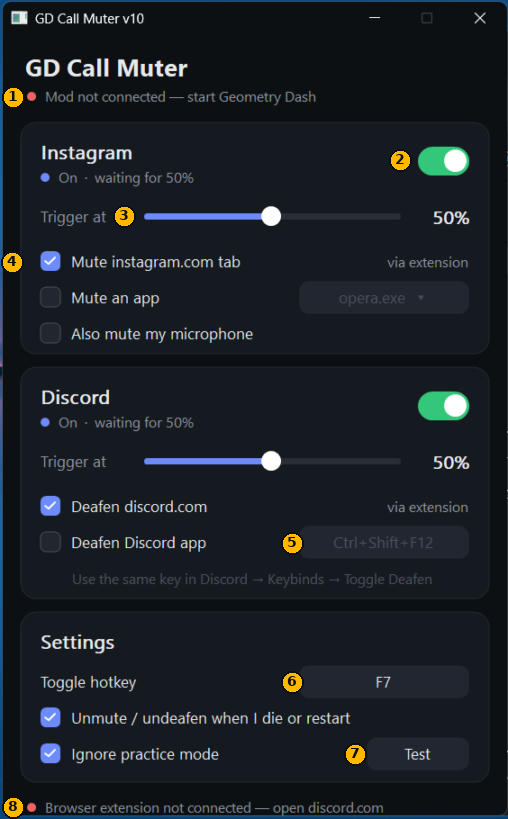
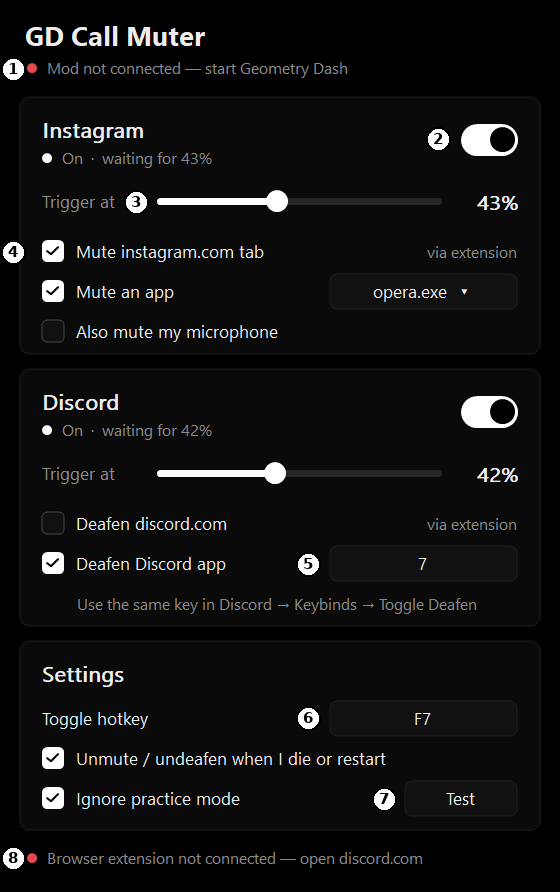
Docs: new black UI screenshots; app can save its own screenshot (--shot)
Claude-Session: https://claude.ai/code/session_01Dt9iSt3DbMXcqJxFsuaK12

diff --git a/windows-app/main_windows.go b/windows-app/main_windows.go
@@ -16,11 +16,33 @@ import (
 	"os"
 	"path/filepath"
 	"runtime"
+	"strings"
 	"syscall"
 	"unsafe"
 )
 
 const appTitle = "GD Call Muter v10"
+
+// shotPath: run with --shot out.png to save a picture of the window and exit
+// (used to make the README screenshot).
+var shotPath string
+
+func saveShot(bmp uintptr, path string) {
+	var img uintptr
+	pGdipBmpFromHBITMAP.Call(bmp, 0, uintptr(unsafe.Pointer(&img)))
+	if img == 0 {
+		return
+	}
+	// PNG encoder CLSID {557CF406-1A04-11D3-9A73-0000F81EF32E}
+	clsid := struct {
+		d1 uint32
+		d2 uint16
+		d3 uint16
+		d4 [8]byte
+	}{0x557CF406, 0x1A04, 0x11D3, [8]byte{0x9A, 0x73, 0x00, 0x00, 0xF8, 0x1E, 0xF3, 0x2E}}
+	p, _ := syscall.UTF16PtrFromString(path)
+	pGdipSaveImageToFile.Call(img, uintptr(unsafe.Pointer(p)), uintptr(unsafe.Pointer(&clsid)), 0)
+}
 
 var (
 	user32  = syscall.NewLazyDLL("user32.dll")
@@ -80,6 +102,8 @@ var (
 	pGdipDeleteGraphics   = gdiplus.NewProc("GdipDeleteGraphics")
 	pGdipSetSmoothingMode = gdiplus.NewProc("GdipSetSmoothingMode")
 	pGdipSetPixelOffset   = gdiplus.NewProc("GdipSetPixelOffsetMode")
+	pGdipBmpFromHBITMAP   = gdiplus.NewProc("GdipCreateBitmapFromHBITMAP")
+	pGdipSaveImageToFile  = gdiplus.NewProc("GdipSaveImageToFile")
 	pGdipCreatePath       = gdiplus.NewProc("GdipCreatePath")
 	pGdipDeletePath       = gdiplus.NewProc("GdipDeletePath")
 	pGdipAddPathArcI      = gdiplus.NewProc("GdipAddPathArcI")
@@ -777,6 +801,11 @@ func paint() {
 	}
 	pBitBlt.Call(hdc, 0, 0, uintptr(w), uintptr(h), mem, 0, 0, 0xCC0020)
 	pSelectObject.Call(mem, oldBmp)
+	if shotPath != "" {
+		saveShot(bmp, shotPath)
+		shotPath = ""
+		pPostQuitMessage.Call(0)
+	}
 	pDeleteObject.Call(bmp)
 	pDeleteDC.Call(mem)
 	pEndPaint.Call(hwndMain, uintptr(unsafe.Pointer(&ps)))
@@ -1098,6 +1127,16 @@ func main() {
 	if r, _, _ := pGetDpiForSystem.Call(); r > 0 {
 		dpi = int(r)
 	}
+	for i, a := range os.Args {
+		if a == "--shot" && i+1 < len(os.Args) {
+			shotPath = os.Args[i+1]
+		}
+	}
+	// a copy named "...shot...exe" saves its picture next to itself when opened
+	if exe, err := os.Executable(); err == nil && shotPath == "" &&
+		strings.Contains(strings.ToLower(filepath.Base(exe)), "shot") {
+		shotPath = filepath.Join(filepath.Dir(exe), "gd-app-black.png")
+	}
 	comInit()
 	gsi := struct {
 		version            uint32
@@ -1108,7 +1147,7 @@ func main() {
 	pGdiplusStartup.Call(uintptr(unsafe.Pointer(&gpToken)), uintptr(unsafe.Pointer(&gsi)), 0)
 	loadCfg()
 
-	if err := serveWeb(); err != nil {
+	if err := serveWeb(); err != nil && shotPath == "" {
 		pMessageBoxW.Call(0, uintptr(unsafe.Pointer(u16("GD Call Muter is already running (or another app is using port 47322). Close the other copy, including v9, and try again."))),
 			uintptr(unsafe.Pointer(u16(appTitle))), 0x30)
 		return

diff --git a/README.md b/README.md
@@ -45,7 +45,7 @@ Three small pieces work together. Everything stays on your own computer.
   If you see *"Windows protected your PC"*, click **More info → Run anyway** (the app isn't code-signed).
 - **Mac:** unzip `GD-Call-Muter-Mac.zip`, then see [Mac extra steps](#mac-extra-steps) for the first open.
 
-The top line of the app turns **green — "Connected"** once Geometry Dash (with the mod) is running.
+The top line of the app shows **Connected** once Geometry Dash (with the mod) is running.
 
 ### Step 3 — Add the browser extension
 
@@ -60,7 +60,7 @@ Needed for muting the **Instagram tab** and deafening **discord.com**.
 5. **Refresh** your instagram.com and discord.com tabs.
 
 > Keep that folder where it is — the browser loads the extension from it.
-> The bottom line of the app turns **green — "Browser extension connected"** once a discord.com or instagram.com tab is open.
+> The bottom line of the app shows **Browser extension connected** once a discord.com or instagram.com tab is open.
 
 ### Step 4 — (Optional) Deafen the Discord *app*
 
@@ -80,14 +80,14 @@ Only if you use the Discord desktop app instead of discord.com.
 
 | # | What it does |
 | --- | --- |
-| **1** | **Mod status.** Green = connected; shows your live % in a level. |
+| **1** | **Mod status.** Dot turns white when connected. |
 | **2** | **On/off switch** for this section. Instagram and Discord are separate. |
 | **3** | **Trigger %.** Once your run passes this, the section kicks in. Each section has its own. |
 | **4** | **What to mute:** the instagram.com tab, an app's sound (Windows), and/or your microphone. |
 | **5** | **Discord app key** — must match your Toggle Deafen keybind in Discord. |
 | **6** | **Toggle hotkey** (default **F7**): mute/deafen or undo it by hand, any time. |
 | **7** | **Test** — mutes/deafens right now so you can check everything works. Click again to undo. |
-| **8** | **Browser extension status.** Green = connected. |
+| **8** | **Browser extension status.** White dot = connected. |
 
 **Settings:**
 - **Unmute / undeafen when I die or restart** — on by default, so you hear your call again after each attempt.
